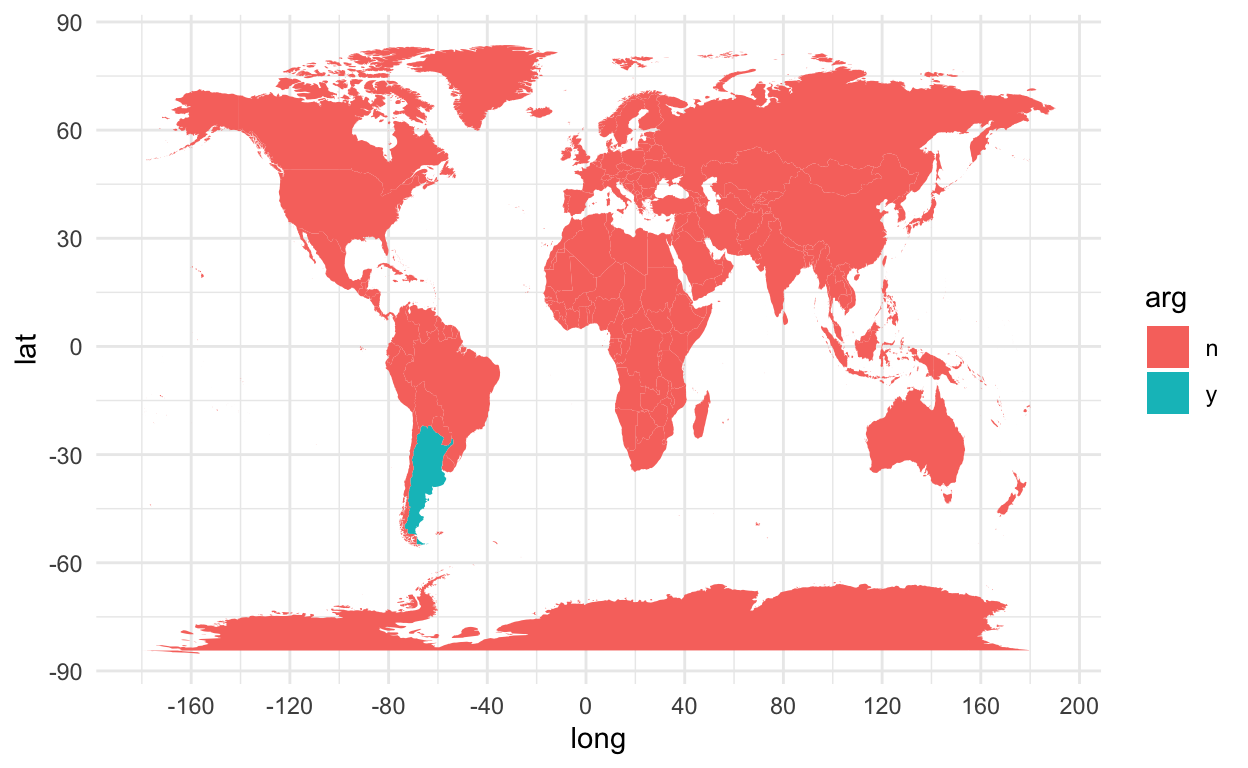
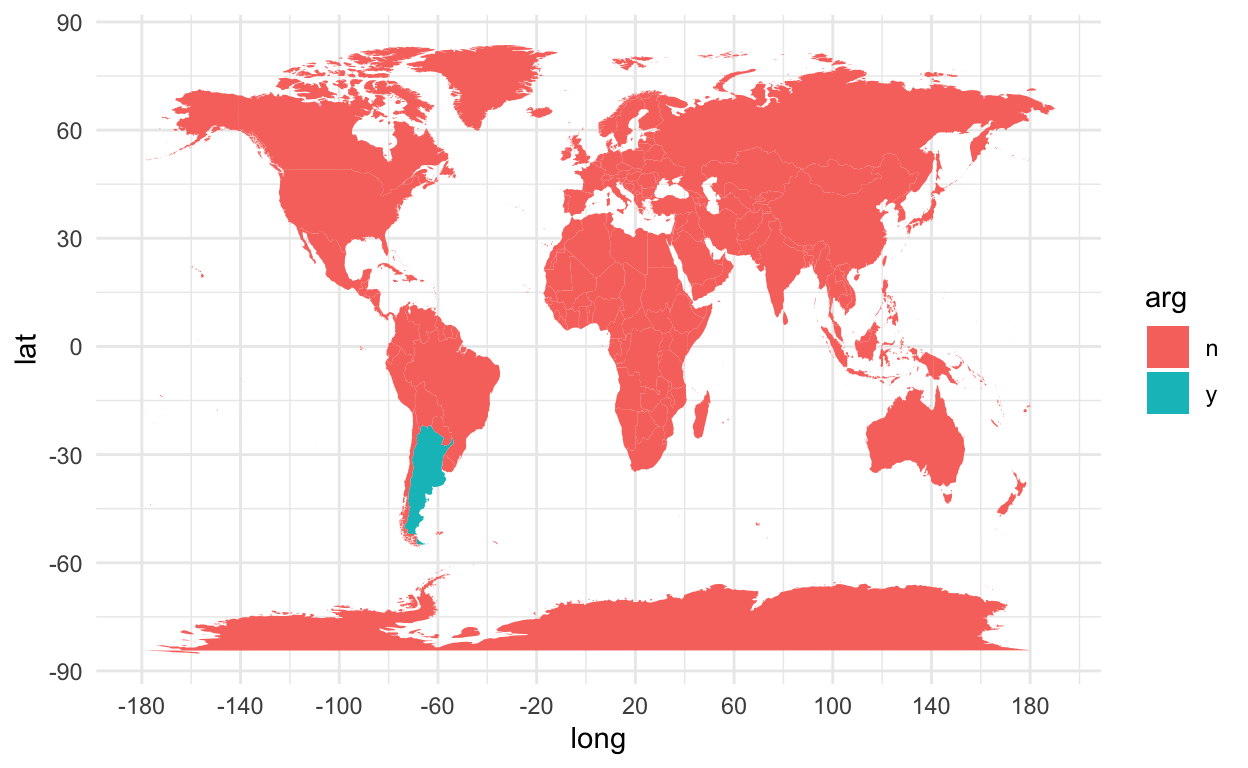
small map post edit

Changed region(s): [[0.5, 0.9062, 0.875, 0.9375], [0.0938, 0.9062, 0.4688, 0.9375]]

diff --git a/_posts/2022-12-19-arg/arg.html b/_posts/2022-12-19-arg/arg.html
@@ -1576,7 +1576,7 @@ The so-called “base map” looks like this.</p>
 <span>  <span class='fu'><a href='https://dplyr.tidyverse.org/reference/mutate.html'>mutate</a></span><span class='op'>(</span>arg <span class='op'>=</span> <span class='fu'><a href='https://rdrr.io/r/base/ifelse.html'>ifelse</a></span><span class='op'>(</span><span class='va'>region</span> <span class='op'>==</span> <span class='st'>"Argentina"</span>, <span class='st'>"y"</span>, <span class='st'>"n"</span><span class='op'>)</span><span class='op'>)</span> <span class='op'>|&gt;</span> </span>
 <span>  <span class='fu'><a href='https://ggplot2.tidyverse.org/reference/ggplot.html'>ggplot</a></span><span class='op'>(</span><span class='fu'><a href='https://ggplot2.tidyverse.org/reference/aes.html'>aes</a></span><span class='op'>(</span><span class='va'>long</span>, <span class='va'>lat</span>, group <span class='op'>=</span> <span class='va'>group</span>, fill <span class='op'>=</span> <span class='va'>arg</span><span class='op'>)</span><span class='op'>)</span> <span class='op'>+</span></span>
 <span>  <span class='fu'><a href='https://ggplot2.tidyverse.org/reference/geom_polygon.html'>geom_polygon</a></span><span class='op'>(</span><span class='op'>)</span> <span class='op'>+</span></span>
-<span>  <span class='fu'><a href='https://ggplot2.tidyverse.org/reference/scale_continuous.html'>scale_x_continuous</a></span><span class='op'>(</span>breaks <span class='op'>=</span> <span class='fu'><a href='https://rdrr.io/r/base/seq.html'>seq</a></span><span class='op'>(</span><span class='op'>-</span><span class='fl'>360</span>, <span class='fl'>360</span>, <span class='fl'>40</span><span class='op'>)</span><span class='op'>)</span> <span class='op'>+</span></span>
+<span>  <span class='fu'><a href='https://ggplot2.tidyverse.org/reference/scale_continuous.html'>scale_x_continuous</a></span><span class='op'>(</span>breaks <span class='op'>=</span> <span class='fu'><a href='https://rdrr.io/r/base/seq.html'>seq</a></span><span class='op'>(</span><span class='op'>-</span><span class='fl'>180</span>, <span class='fl'>180</span>, <span class='fl'>40</span><span class='op'>)</span><span class='op'>)</span> <span class='op'>+</span></span>
 <span>  <span class='fu'><a href='https://ggplot2.tidyverse.org/reference/scale_continuous.html'>scale_y_continuous</a></span><span class='op'>(</span>breaks <span class='op'>=</span> <span class='fu'><a href='https://rdrr.io/r/base/seq.html'>seq</a></span><span class='op'>(</span><span class='op'>-</span><span class='fl'>90</span>, <span class='fl'>90</span>, <span class='fl'>30</span><span class='op'>)</span><span class='op'>)</span></span>
 <span><span class='va'>base</span></span></code></pre>
 </div>

diff --git a/_site/posts/2022-12-19-arg/index.html b/_site/posts/2022-12-19-arg/index.html
@@ -2288,7 +2288,7 @@ The so-called “base map” looks like this.</p>
 <span>  <span class='fu'><a href='https://dplyr.tidyverse.org/reference/mutate.html'>mutate</a></span><span class='op'>(</span>arg <span class='op'>=</span> <span class='fu'><a href='https://rdrr.io/r/base/ifelse.html'>ifelse</a></span><span class='op'>(</span><span class='va'>region</span> <span class='op'>==</span> <span class='st'>"Argentina"</span>, <span class='st'>"y"</span>, <span class='st'>"n"</span><span class='op'>)</span><span class='op'>)</span> <span class='op'>|&gt;</span> </span>
 <span>  <span class='fu'><a href='https://ggplot2.tidyverse.org/reference/ggplot.html'>ggplot</a></span><span class='op'>(</span><span class='fu'><a href='https://ggplot2.tidyverse.org/reference/aes.html'>aes</a></span><span class='op'>(</span><span class='va'>long</span>, <span class='va'>lat</span>, group <span class='op'>=</span> <span class='va'>group</span>, fill <span class='op'>=</span> <span class='va'>arg</span><span class='op'>)</span><span class='op'>)</span> <span class='op'>+</span></span>
 <span>  <span class='fu'><a href='https://ggplot2.tidyverse.org/reference/geom_polygon.html'>geom_polygon</a></span><span class='op'>(</span><span class='op'>)</span> <span class='op'>+</span></span>
-<span>  <span class='fu'><a href='https://ggplot2.tidyverse.org/reference/scale_continuous.html'>scale_x_continuous</a></span><span class='op'>(</span>breaks <span class='op'>=</span> <span class='fu'><a href='https://rdrr.io/r/base/seq.html'>seq</a></span><span class='op'>(</span><span class='op'>-</span><span class='fl'>360</span>, <span class='fl'>360</span>, <span class='fl'>40</span><span class='op'>)</span><span class='op'>)</span> <span class='op'>+</span></span>
+<span>  <span class='fu'><a href='https://ggplot2.tidyverse.org/reference/scale_continuous.html'>scale_x_continuous</a></span><span class='op'>(</span>breaks <span class='op'>=</span> <span class='fu'><a href='https://rdrr.io/r/base/seq.html'>seq</a></span><span class='op'>(</span><span class='op'>-</span><span class='fl'>180</span>, <span class='fl'>180</span>, <span class='fl'>40</span><span class='op'>)</span><span class='op'>)</span> <span class='op'>+</span></span>
 <span>  <span class='fu'><a href='https://ggplot2.tidyverse.org/reference/scale_continuous.html'>scale_y_continuous</a></span><span class='op'>(</span>breaks <span class='op'>=</span> <span class='fu'><a href='https://rdrr.io/r/base/seq.html'>seq</a></span><span class='op'>(</span><span class='op'>-</span><span class='fl'>90</span>, <span class='fl'>90</span>, <span class='fl'>30</span><span class='op'>)</span><span class='op'>)</span></span>
 <span><span class='va'>base</span></span></code></pre>
 </div>
